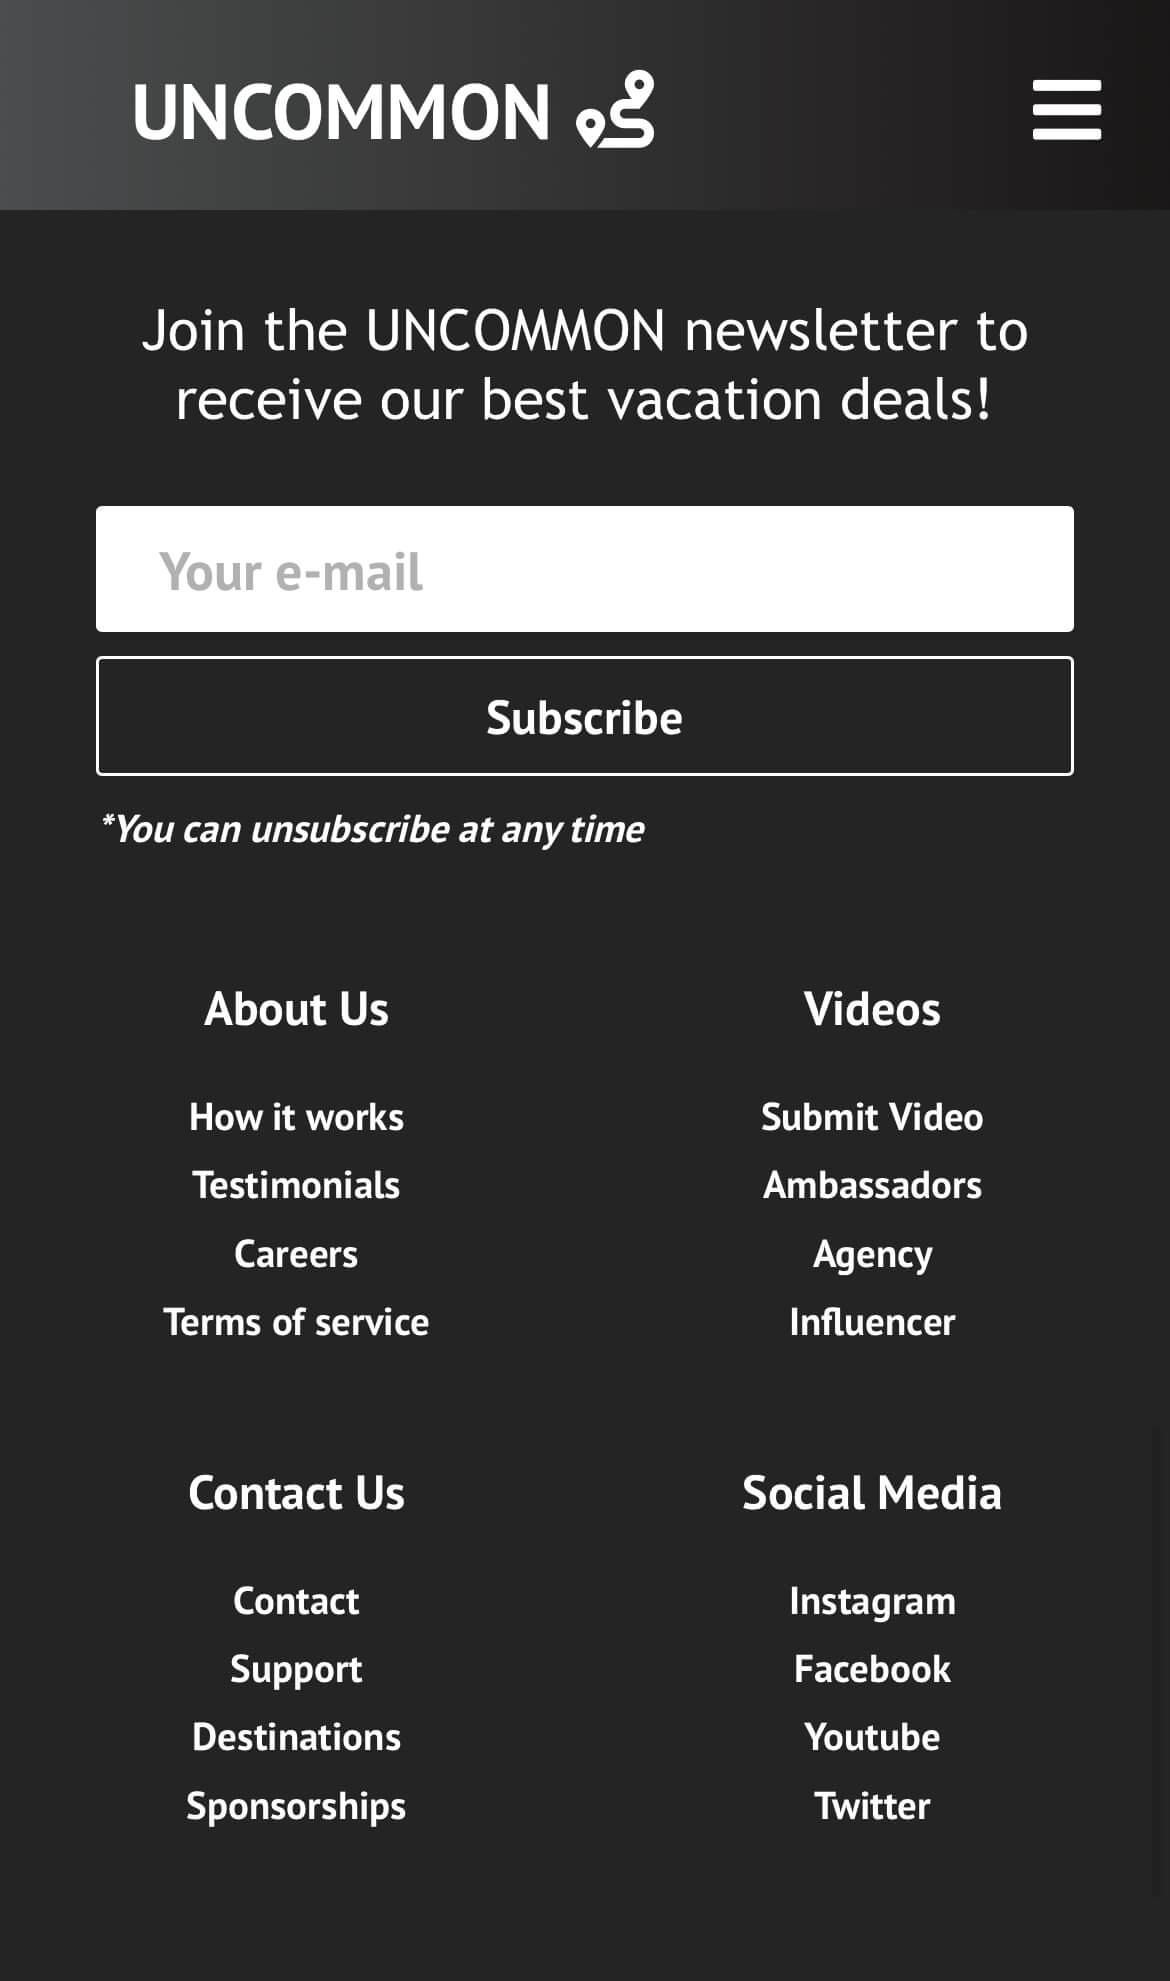
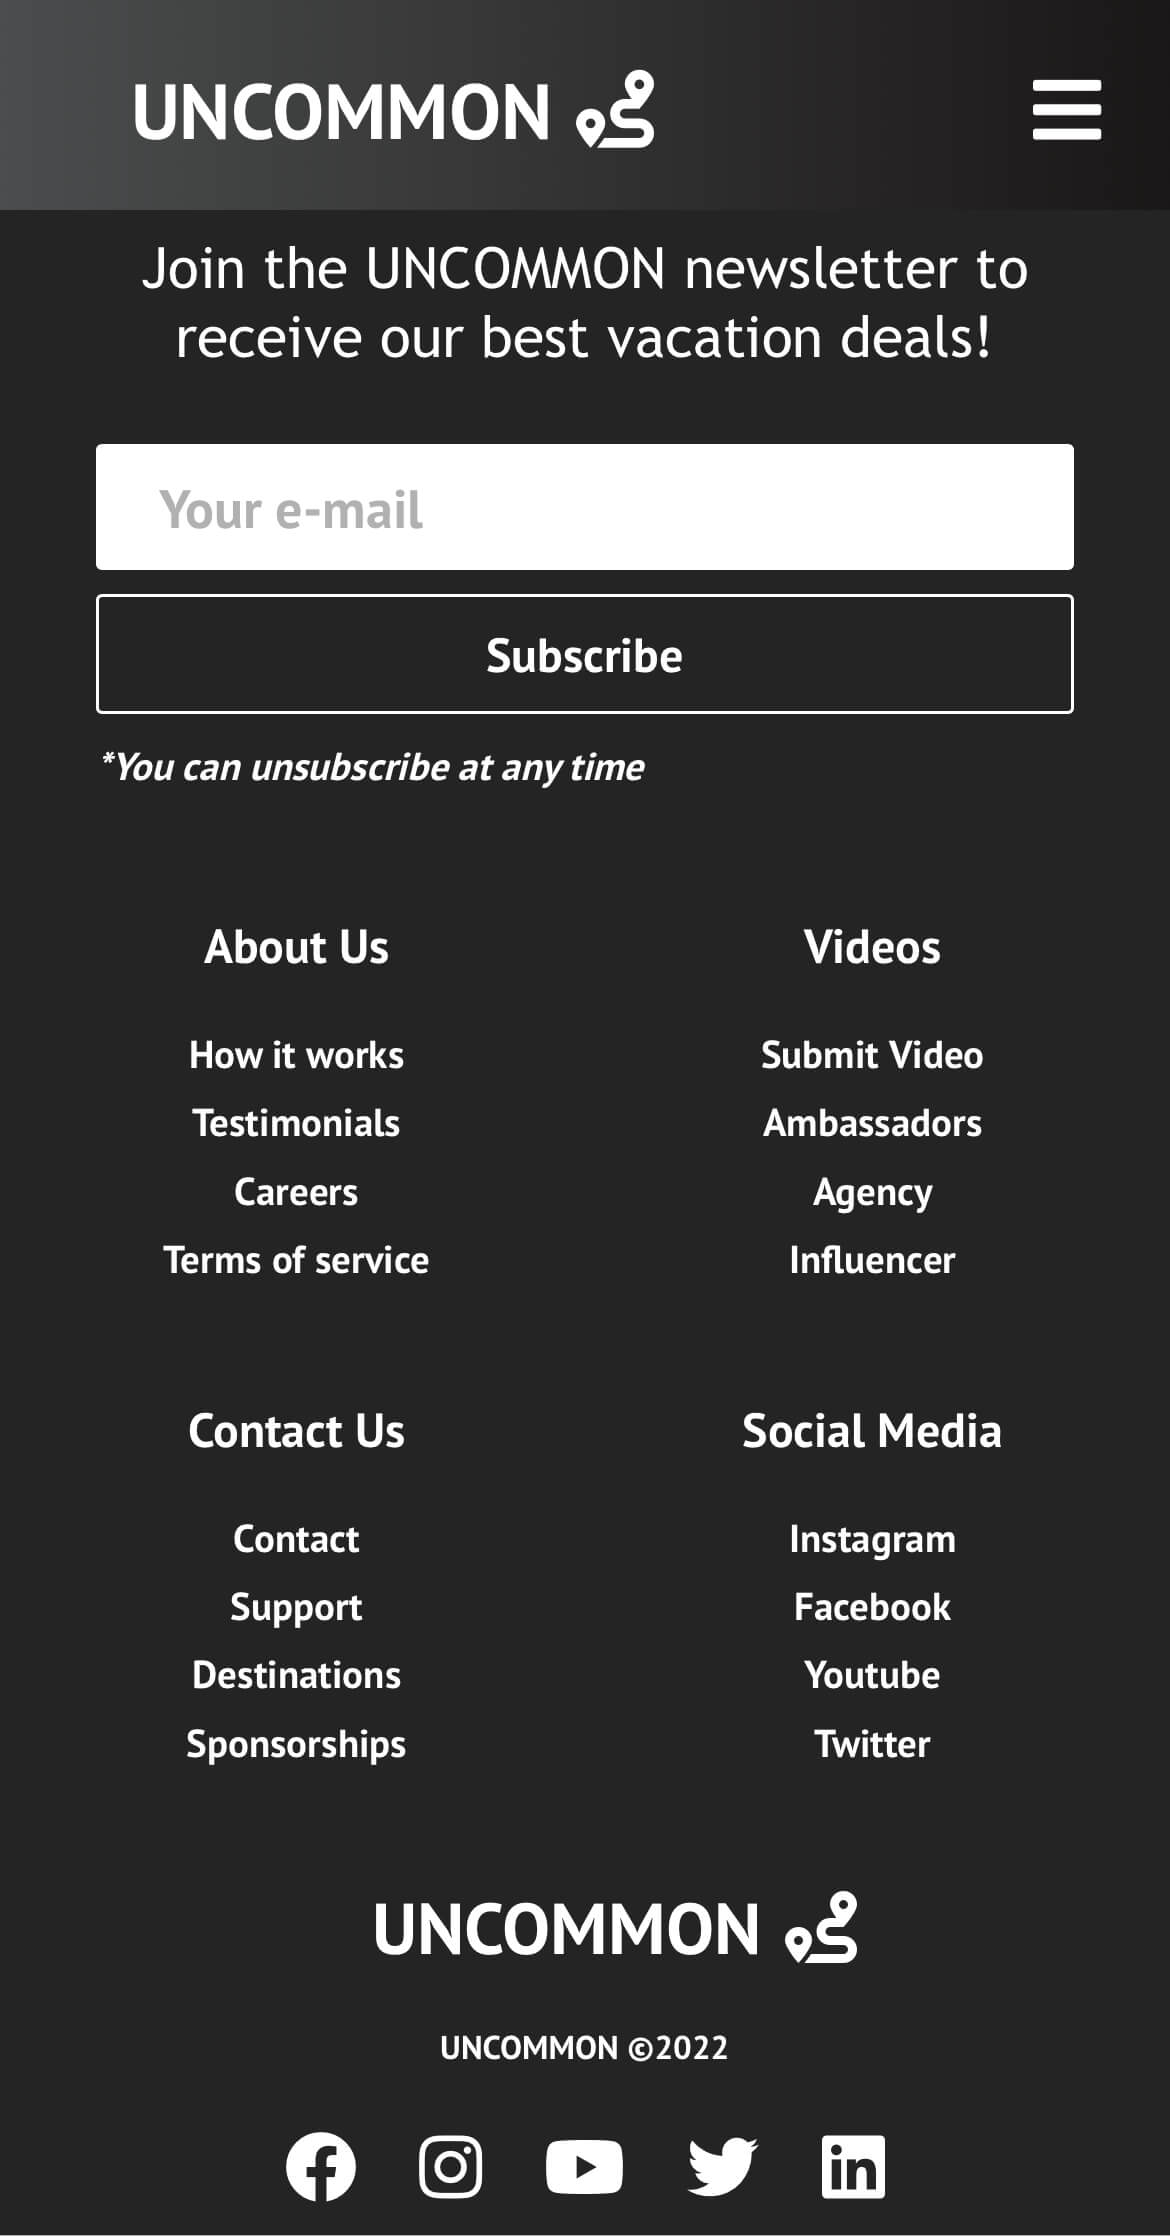
Add minor fixes

diff --git a/src/components/CardItem/CardItem.js b/src/components/CardItem/CardItem.js
@@ -12,7 +12,7 @@ function CardItem({ path, label, src, text, number }) {
             <img src={src} alt="travel" className="card-item__img" />
           </figure>
           <div className="card-item__info">
-            <h5 className="card-item__text">{text}</h5>
+            <h2 className="card-item__text">{text}</h2>
           </div>
         </Link>
       </li>

diff --git a/src/components/Footer/styles.scss b/src/components/Footer/styles.scss
@@ -130,8 +130,9 @@
     align-items: center;
     width: 90%;
     max-width: 1000px;
-    margin: 2.5rem auto 0 auto;
+    margin: 1rem auto 0 auto;
     @media (min-width: 820px) {
+      margin-top: 2.5rem;
       flex-direction: row;
     }
   }

diff --git a/README.md b/README.md
@@ -2,7 +2,7 @@
 
 # Adventure Travel Website
 
-Adventure: A travel based responsive landing web page built - this project was bootstrapped with Create React App.
+Adventure: A travel based responsive landing web page - this project was bootstrapped with Create React App.
 
 [LIVE PREVIEW](https://magda-korzeniowska.github.io/adventure-travel-website/)
 
@@ -17,6 +17,7 @@ Adventure: A travel based responsive landing web page built - this project was b
   <img align="top" src="/src/assets/images/cards_mobile.png" width="32%" /> 
   <img align="top" src="/src/assets/images/footer_mobile.png" width="32%" />
 </p>
+
 ## Installation
 
 1. Start terminal and clone repository using:
